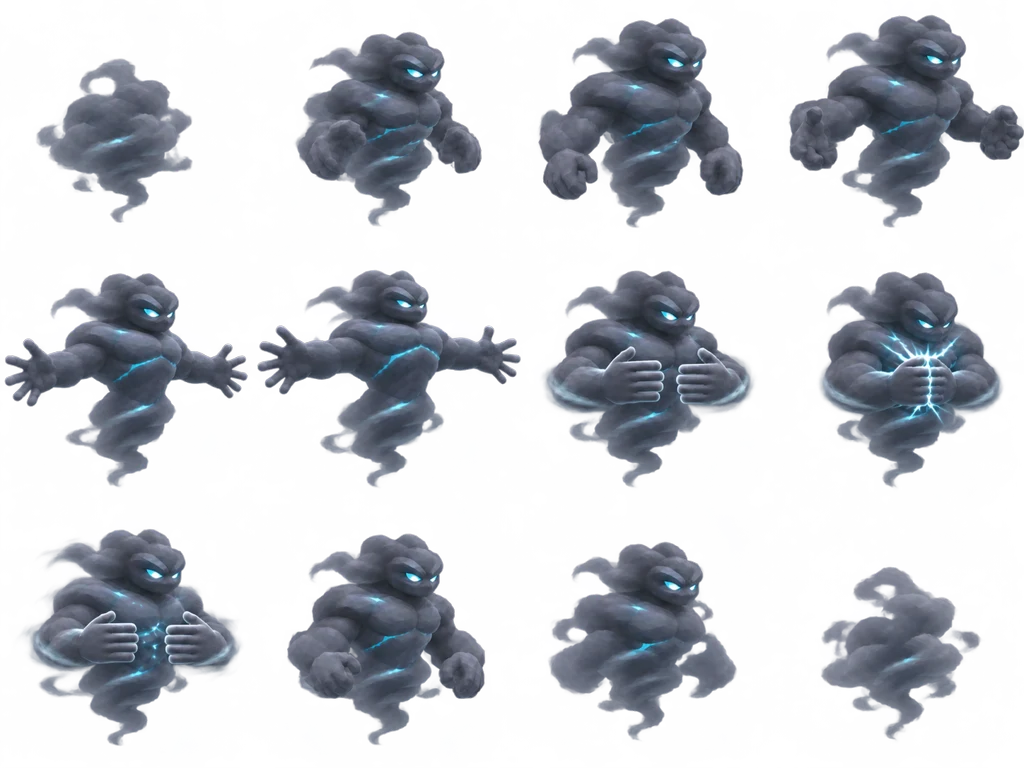
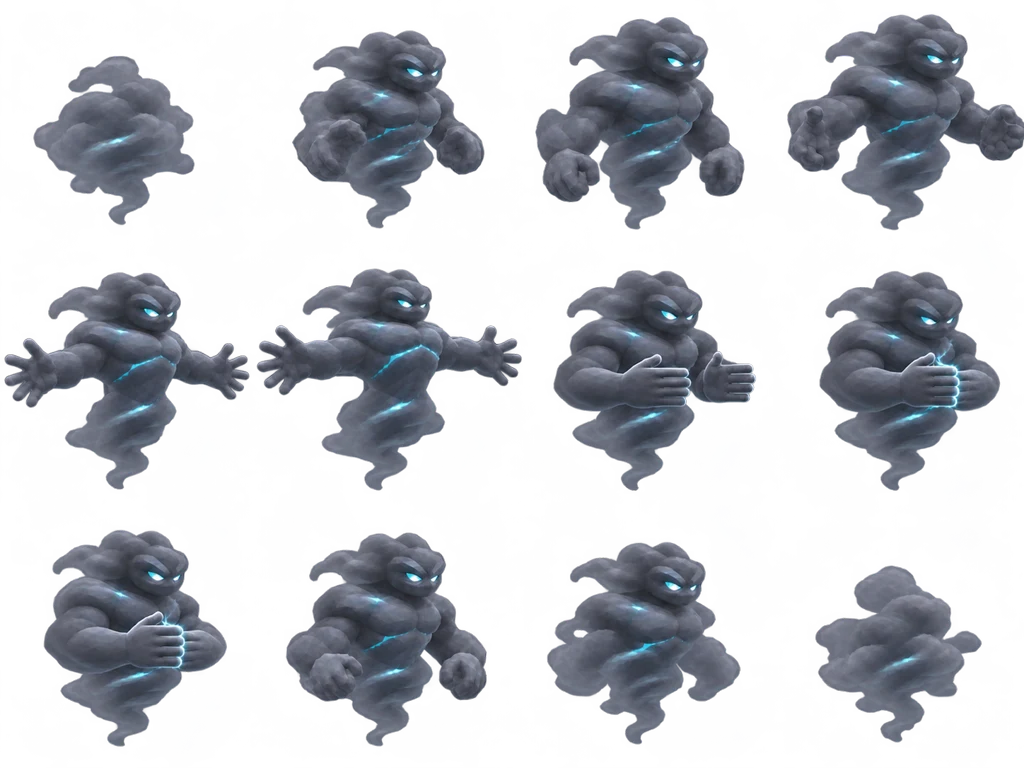
Hold Thunderclap palms through impact; add crescent lightning and fast arm mist

diff --git a/assets/thunderclap-v79.js b/assets/thunderclap-v79.js
@@ -9,15 +9,14 @@ function pose(o){
  if(s==='thunder-form'){frame=Math.min(2,Math.floor(p*3));alpha=C(p*3);}
  if(s==='thunder-spread')frame=3+Math.min(2,Math.floor(p*3));
  if(s==='thunder-clap')frame=p<.25?5:p<.65?6:7;
- if(s==='thunder-bolt')frame=p<.3?7:8;
- if(s==='thunder-impact')frame=p<.65?8:9;
+ if(s==='thunder-bolt')frame=7;
+ if(s==='thunder-impact')frame=7;
  if(s==='thunder-dissolve'){frame=p<.55?10:11;alpha=1-p;}
- const thrust=s==='thunder-clap'?9*C((p-.5)/.5):s==='thunder-bolt'?9*(1-p):0;
- return{x:500+dir*thrust,y:425,dir,frame,alpha,source:{x:500+dir*(35+thrust),y:279},end:{x:t.x,y:t.y-105}};
+ const thrust=s==='thunder-clap'?9*C((p-.5)/.5):['thunder-bolt','thunder-impact'].includes(s)?9:0;
+ return{x:500+dir*thrust,y:425,dir,frame,alpha,source:{x:500+dir*(48+thrust),y:279},end:{x:t.x,y:t.y-105}};
 }
-function path(o,t){const b=pose(o),s=b.source,e=b.end,dx=e.x-s.x;
- return{x:L(s.x,e.x,t),y:L(s.y,e.y,t)-Math.sin(Math.PI*t)*Math.min(100,Math.abs(dx)*.25+28)};
-}
+function path(o,t){const b=pose(o);return{x:L(b.source.x,b.end.x-b.dir*34,t),y:L(b.source.y,b.end.y,t)};}
+function crescent(o,p,u){const b=pose(o),center=path(o,p),scale=Math.min(1,p*5);return{x:center.x+b.dir*34*Math.sin(Math.PI*u)*scale,y:center.y-76*Math.cos(Math.PI*u)*scale};}
 function stroke(c,points,color,width,alpha=1){c.save();c.globalAlpha*=alpha;c.strokeStyle=color;c.lineWidth=width;c.lineCap='round';c.lineJoin='round';c.beginPath();points.forEach((p,i)=>i?c.lineTo(p.x,p.y):c.moveTo(p.x,p.y));c.stroke();c.restore();}
 function burst(c,x,y,p,r=70){
  c.save();c.globalAlpha*=1-p;
@@ -28,12 +27,32 @@ function burst(c,x,y,p,r=70){
 }
 function bolt(c,o){
  const p=C(o.progress),impact=o.stage==='thunder-impact';if(!impact&&p<=0)return;
- const head=impact?1:p,tail=impact?C(p*.9):Math.max(0,p-.42),phase=Math.floor(p*14),pts=[];
- for(let i=0;i<=26;i++){const t=L(tail,head,i/26),point=path(o,t);if(i>0&&i<26){point.x+=Math.sin(i*19.7+phase*4.1)*7;point.y+=Math.cos(i*12.3+phase)*11;}pts.push(point);}
- const fade=impact?1-p:1;
- stroke(c,pts,'#267bff',15,.23*fade);stroke(c,pts,'#40c4ff',6,.85*fade);stroke(c,pts,'#edffff',2.2,fade);
- for(let i=5;i<24;i+=6){const point=pts[i],d=i%2?1:-1;stroke(c,[point,{x:point.x-14,y:point.y+d*15},{x:point.x-24,y:point.y+d*10},{x:point.x-36,y:point.y+d*26}],'#80dfff',1.6,.8*fade);}
- const tip=path(o,head);burst(c,tip.x,tip.y,impact?p:.2,impact?90:23);
+ const travel=impact?1:p,fade=impact?Math.max(0,1-p*2.5):1,phase=Math.floor(p*16),pts=[];
+ for(let i=0;i<=40;i++){const point=crescent(o,travel,i/40);if(i>0&&i<40){point.x+=Math.sin(i*19.7+phase*4.1)*2;point.y+=Math.cos(i*12.3+phase)*2;}pts.push(point);}
+ // The curved electrical wave travels as a whole; no straight beam joins it to the hands.
+ for(let ghost=2;ghost>=1;ghost--){const trail=pts.map(pt=>({x:pt.x-pose(o).dir*ghost*10,y:pt.y}));stroke(c,trail,'#42baff',7,.10*fade/ghost);}
+ stroke(c,pts,'#237aff',20,.25*fade);stroke(c,pts,'#47c9ff',8,.9*fade);stroke(c,pts,'#efffff',2.7,fade);
+ for(const i of [7,17,27,35]){const point=pts[i],d=i%2?1:-1;stroke(c,[point,{x:point.x-d*7,y:point.y-8},{x:point.x+d*4,y:point.y-17}],'#80dfff',1.5,.8*fade);}
+ if(impact){const b=pose(o);burst(c,b.end.x,b.end.y,p,90);}
+}
+function armMist(c,o){
+ const p=C(o.progress),s=o.stage,age=s==='thunder-clap'?p:s==='thunder-bolt'?1+p*2:-1;
+ if(age<0||age>2.1)return;const b=pose(o),fade=age<=1?1:Math.max(0,1-(age-1)/1.1);
+ c.save();c.globalAlpha*=fade;
+ for(const side of [-1,1]){
+  const startX=500+side*150;
+  // Fast curved vapor strokes sweep both arms toward the central clap.
+  for(let lane=0;lane<5;lane++){
+   const shift=lane*4,phase=(age*2.8+lane*.15)%1;
+   c.strokeStyle=lane%2?'#b9e4f3a0':'#7d9eb4a0';c.lineWidth=2+lane%2;c.beginPath();
+   const start=phase*.7,end=Math.min(1,start+.25);
+   for(let k=0;k<14;k++){const q=L(start,end,k/13),x=L(startX,b.source.x,q),y=279-Math.sin(q*Math.PI)*(28+shift)+shift; k?c.lineTo(x,y):c.moveTo(x,y);}c.stroke();
+  }
+  for(let i=0;i<19;i++){
+   const q=(age*3.2+i/19)%1,x=L(startX,b.source.x,q)+Math.sin(i*7)*5,y=279-Math.sin(q*Math.PI)*(22+i%5*6)+Math.cos(i*5)*9,r=(9+i%4*4)*(1-q*.45);
+   const haze=c.createRadialGradient(x,y,0,x,y,r);haze.addColorStop(0,'#9ab6c18f');haze.addColorStop(.6,'#607d995f');haze.addColorStop(1,'#6a8c9900');c.fillStyle=haze;c.beginPath();c.ellipse(x,y,r,r*.55,side*.3,0,0,TAU);c.fill();
+  }
+ }c.restore();
 }
 function draw(c,o){
  const b=pose(o),p=C(o.progress),s=o.stage;
@@ -44,11 +63,12 @@ function draw(c,o){
  if(o.layer==='actor'&&image.complete&&image.naturalWidth){
   const w=image.naturalWidth/4,h=image.naturalHeight/3;c.save();c.globalAlpha*=b.alpha;c.translate(b.x,425);c.scale(b.dir,1);
   if(s==='thunder-clap'&&p>.55){const force=Math.sin((p-.55)/.45*Math.PI);c.scale(1+force*.035,1-force*.025);}
-  const bob=['thunder-form','thunder-dissolve'].includes(s)?0:Math.sin(p*Math.PI)*3;
+  const bob=['thunder-spread'].includes(s)?Math.sin(p*Math.PI)*3:0;
   c.drawImage(image,(b.frame%4)*w,Math.floor(b.frame/4)*h,w,h,-145,-288-bob,290,290);c.restore();
   if(s==='thunder-clap'&&p>.65)burst(c,b.source.x,b.source.y,(p-.65)/.35*.2,90);
  }
  if(o.layer==='bolt'){
+  armMist(c,o);
   const age=s==='thunder-clap'&&p>.65?(p-.65)*140:s==='thunder-bolt'?49+p*320:-1;
   if(age>=0&&age<240){const q=age/240;
    burst(c,b.source.x,b.source.y,q,110);
@@ -58,5 +78,5 @@ function draw(c,o){
   if(s==='thunder-bolt'||s==='thunder-impact')bolt(c,o);
  }
 }
-root.WIZARDRY_THUNDERCLAP_V79={draw,pose,path,depthFor:(o,layer)=>layer==='bolt'?(o.target?.y||450)+.1:425-8};
+root.WIZARDRY_THUNDERCLAP_V79={draw,pose,path,crescent,depthFor:(o,layer)=>layer==='bolt'?(o.target?.y||450)+.1:425-8};
 })(window);

diff --git a/arena.js b/arena.js
@@ -47,7 +47,7 @@
       damage:480,icon:"♆",accuracy:.90,duration:5800,hit:.65,rarity:"EPIC",
       short:"90% ACCURACY",description:"A dorsal fin slowly rises and circles before a shark jumps straight up, flops at the apex, then arches downward onto one target and chomps for 480 damage, then splashes back beneath the arena floor"},
     {id:"thunder",name:"Thunderclap",school:"lightning",cost:6,target:"enemy",kind:"summon",
-      damage:550,icon:"⚡",accuracy:.75,duration:2690,hit:.65,rarity:"EPIC",
+      damage:550,icon:"⚡",accuracy:.75,duration:3060,hit:.65,rarity:"EPIC",
       short:"75% ACCURACY",description:"A dark thundercloud being with electric-blue eyes forms at the arena center, spreads its arms and claps, firing an arcing bolt at one enemy for 550 damage"}
   ];
   const BY_ID=Object.fromEntries(CARDS.map(x=>[x.id,x]));
@@ -606,7 +606,7 @@
       startStage(a,"thunder-bolt",320);
     }else if(a.stage==="thunder-bolt"){
       if(!a.applied)applySpell(a);
-      startStage(a,"thunder-impact",280);
+      startStage(a,"thunder-impact",650);
     }else if(a.stage==="thunder-impact"){
       startStage(a,"thunder-dissolve",600);
     }else if(a.stage==="thunder-dissolve"){
